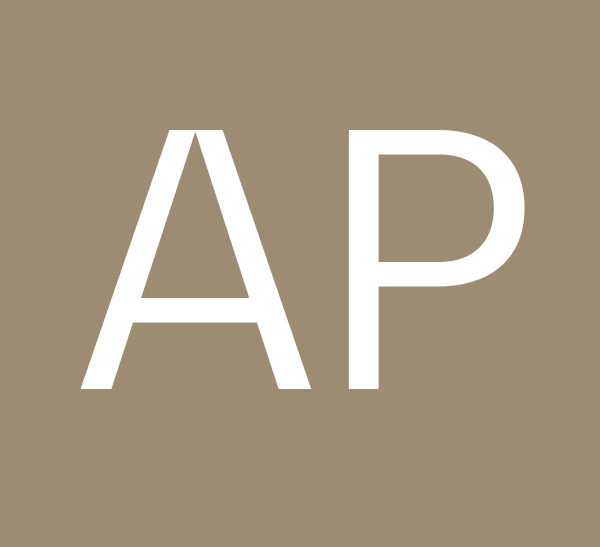
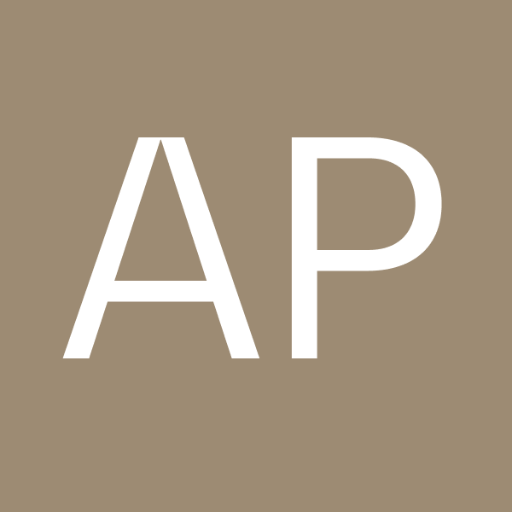
new fav

diff --git a/src/app/layout.js b/src/app/layout.js
@@ -12,20 +12,17 @@ export default function RootLayout({ children }) {
   return (
     <html lang="en">
       <head>
-        <link
-          rel="icon"
-          type="image/png"
-          href="/favicon-48x48.png"
-          sizes="48x48"
-        />
-       
-        <link rel="shortcut icon" href="/favicon.ico" />
-        <link
-          rel="apple-touch-icon"
-          sizes="180x180"
-          href="/apple-touch-icon.png"
-        />
-        <link rel="manifest" href="/site.webmanifest" />
+
+      <link rel="icon" type="image/png" href="/favicon-96x96.png" sizes="96x96" />
+<link rel="icon" type="image/svg+xml" href="/favicon.svg" />
+<link rel="shortcut icon" href="/favicon.ico" />
+<link rel="apple-touch-icon" sizes="180x180" href="/apple-touch-icon.png" />
+<link rel="manifest" href="/site.webmanifest" />
+
+
+
+      
+    
       </head>
       <body>
         {/* <Header /> */}
